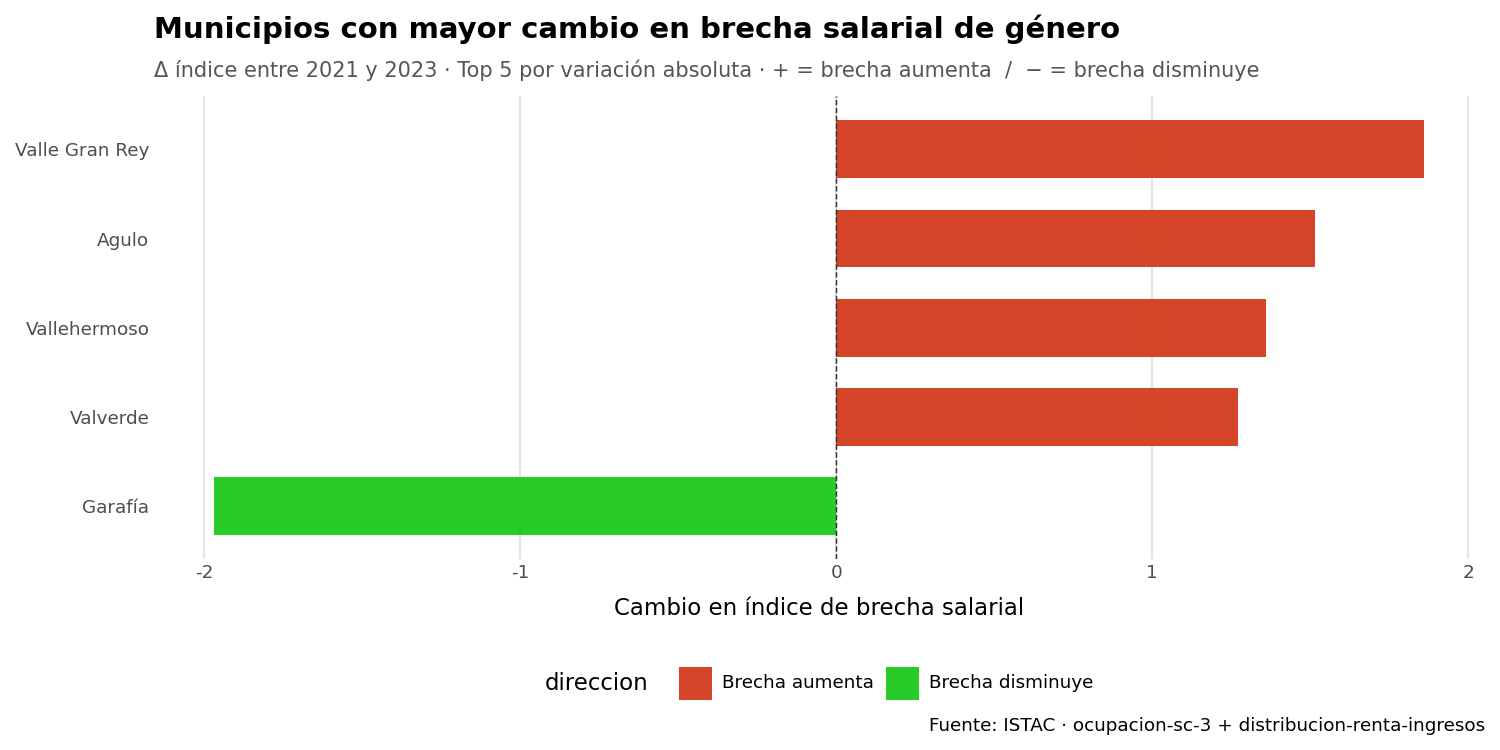
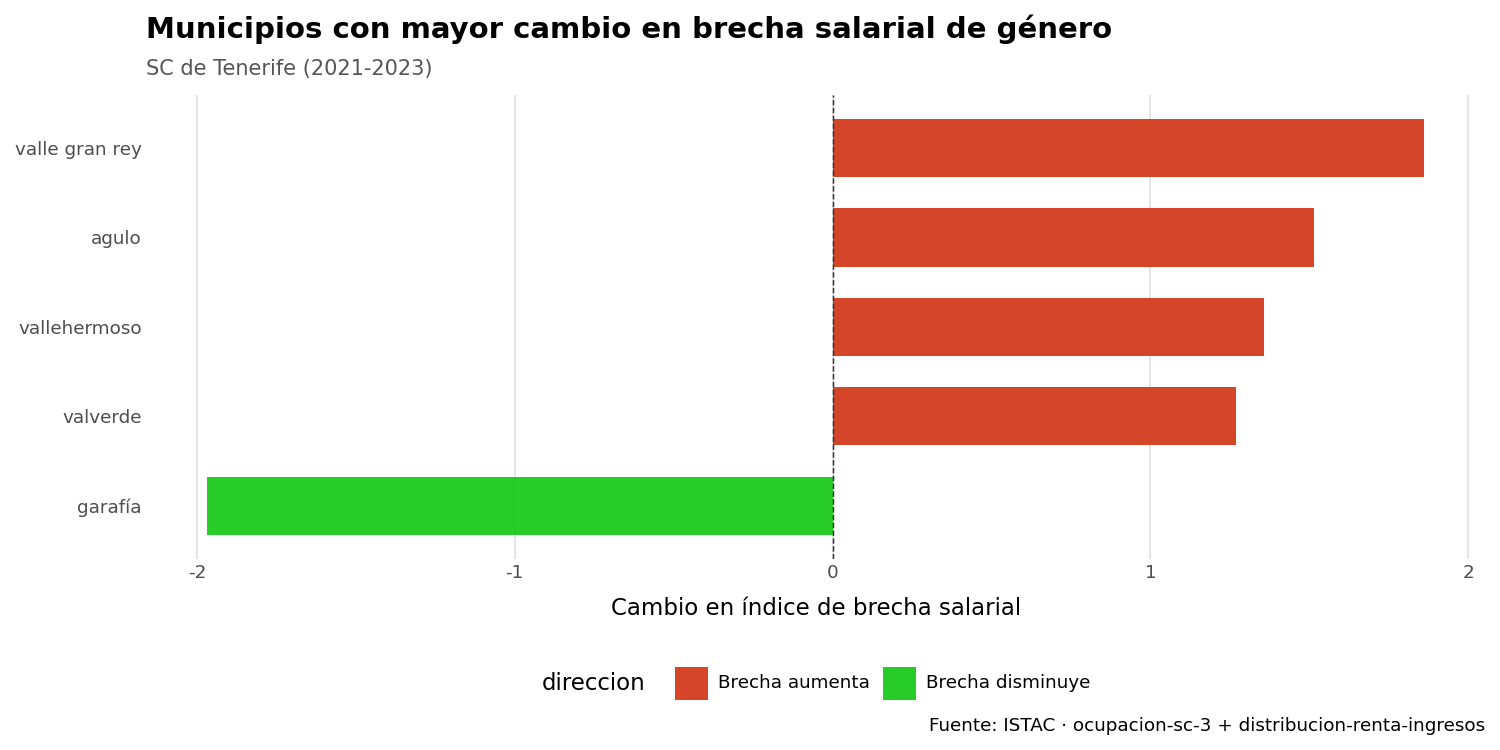
update

diff --git a/assets_proyecto5/plots_assets.py b/assets_proyecto5/plots_assets.py
@@ -403,9 +403,7 @@ def plot_brecha_salarial(context: AssetExecutionContext) -> None:
         + coord_flip()
         + labs(
             title="Municipios con mayor cambio en brecha salarial de género",
-            subtitle=(f"Δ índice entre {AÑO_INI} y {AÑO_FIN} · "
-                      f"Top {TOP_N} por variación absoluta · "
-                      f"+ = brecha aumenta  /  − = brecha disminuye"),
+            subtitle="SC de Tenerife (2021-2023)",
             x="", y="Cambio en índice de brecha salarial",
             caption="Fuente: ISTAC · ocupacion-sc-3 + distribucion-renta-ingresos",
         )
